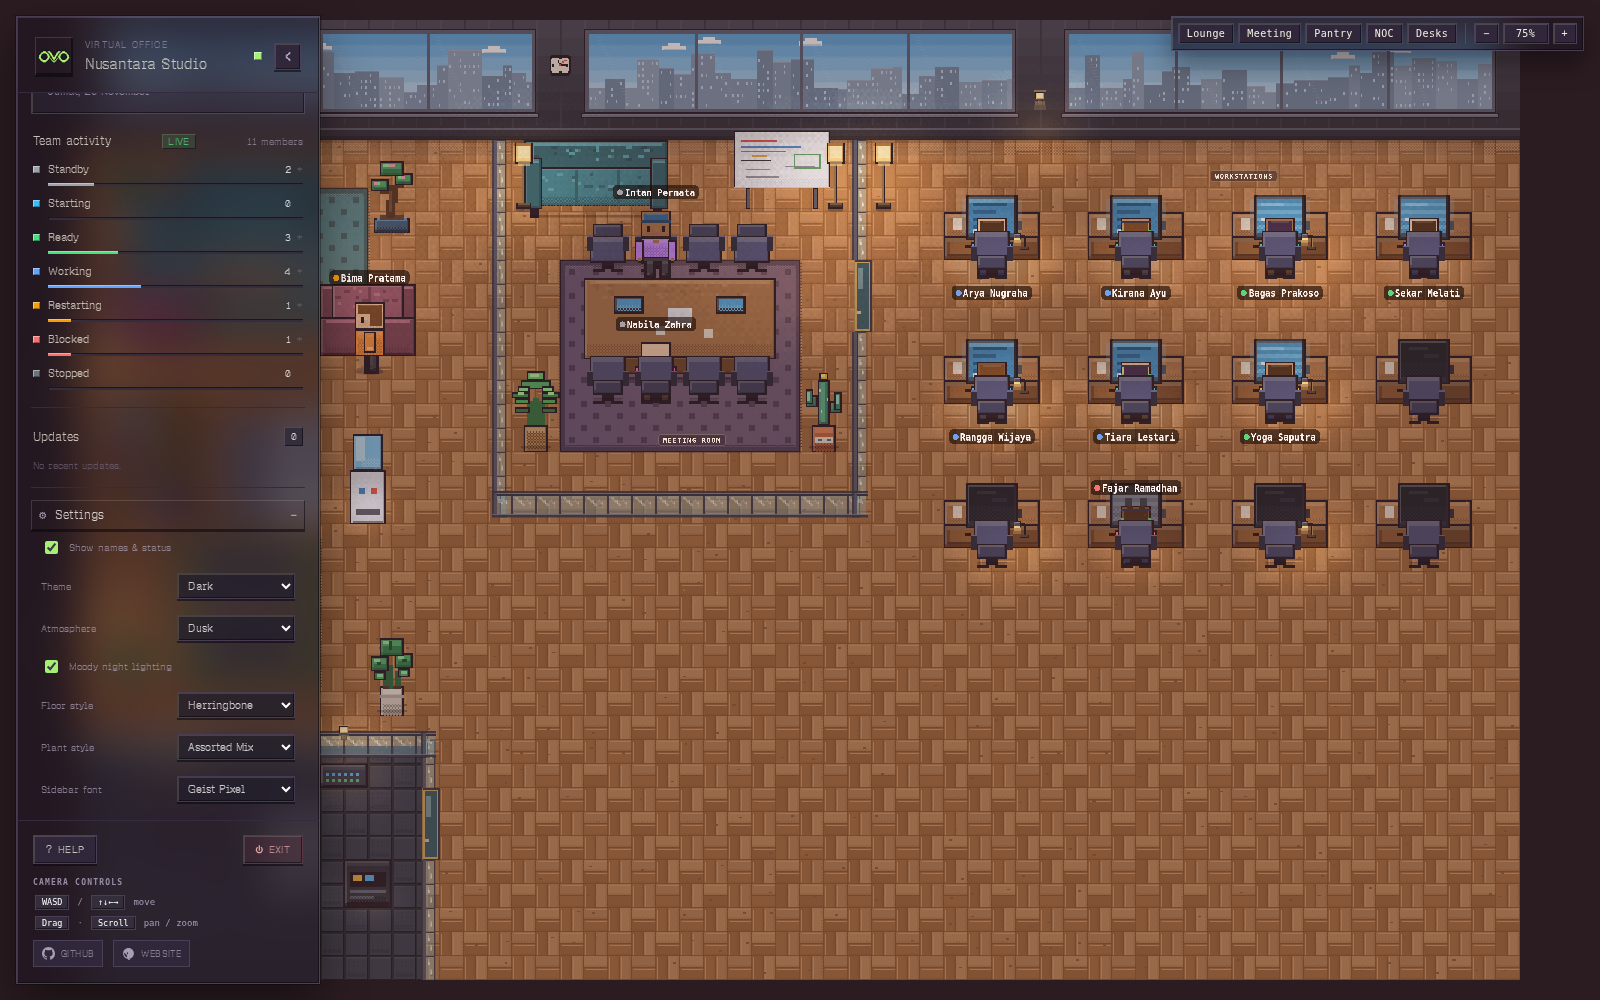
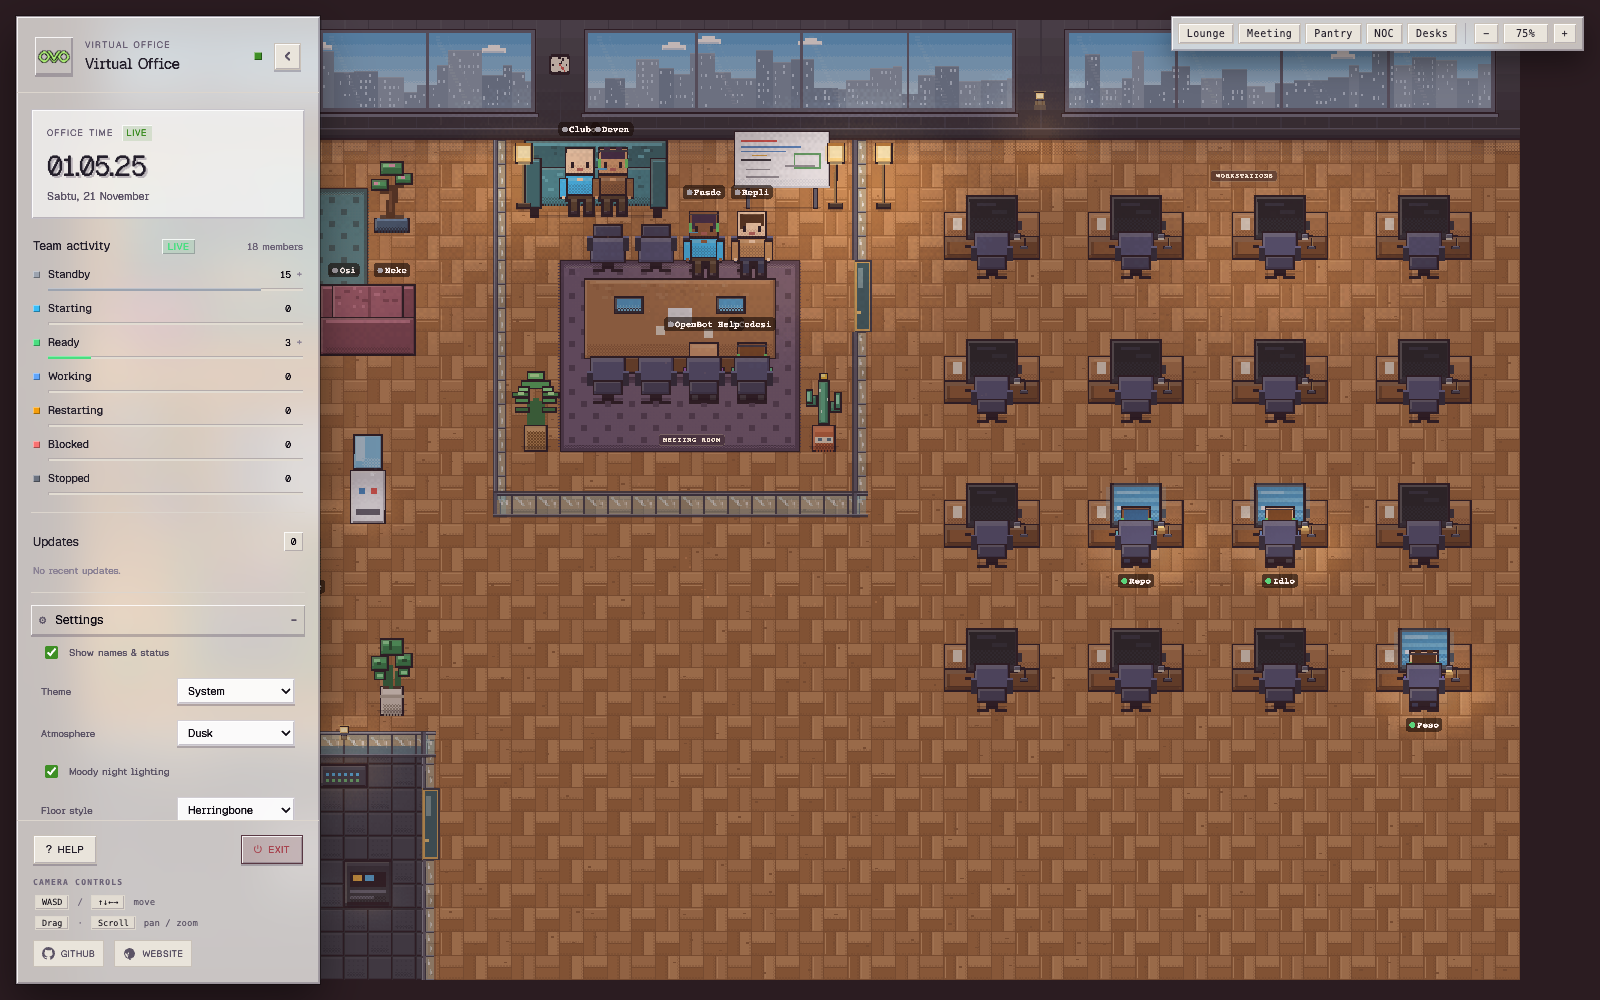
docs: regenerate screenshots with Virtual Office profile, drop Nusantara Studio

diff --git a/src/main.tsx b/src/main.tsx
@@ -1,4 +1,12 @@
 import { createRoot } from 'react-dom/client';
 import App from './App';
+import { useStore } from './store/useStore';
 import './styles/index.css';
+
+// Screenshot tooling (tmp/shoot.mjs) reads and drives the store through this
+// handle to reproduce the documented frames. Dev-only, one line, no behavior.
+if (import.meta.env.DEV) {
+  (window as unknown as { __OVO_STORE__: typeof useStore }).__OVO_STORE__ = useStore;
+}
+
 createRoot(document.getElementById('root')!).render(<App />);

diff --git a/README.md b/README.md
@@ -91,14 +91,14 @@ crops; the rest are full **1600 × 1000** captures across Day, Dusk, and Night a
 | `office-activity.gif` | 640 × 400 | 10 s timelapse clip, 10 fps (`ffmpeg`) |
 
 The workspace identity is
-a demo one — name **Nusantara Studio**, custom circular profile avatar via `/api/office-avatar` — so
+a demo one — name **Virtual Office**, custom circular profile avatar via `/api/office-avatar` — so
 the documentation never shows a real account name or avatar. No mock lives in a component: the
 world, the sidebar and the info card all read the same store shape they read in production.
 
 <!-- Side-by-side on GitHub, stacked on narrow screens: two cells, one image each. -->
 | <img src="docs/assets/office-overview.png" alt="Full office canvas with the sidebar hidden" width="100%"> | <img src="docs/assets/sidebar.png" alt="Floating sidebar with the team activity list" width="40%"> |
 |:--:|:--:|
-| **1 · Full office, sidebar hidden** — the canvas owns the whole viewport: workstation block on the right (4 bays per row, one desk per agent), 2.5D glass Meeting Room, Lounge, Pantry & Storage (centered dining rug), floor/desk lamps, balanced botanical planters and the raised-floor NOC on the left, plus the top-right room/zoom toolbar (`50%–300%`). | **2 · Sidebar** — the frosted panel floats 16 px from every edge, showing **Nusantara Studio** with its circular profile avatar, the `Live` source badge and clock, clickable phase rows, recent-updates feed, **Settings**, and the footer with **Help**, **Exit**, camera shortcuts, **GitHub** and **Website**. |
+| **1 · Full office, sidebar hidden** — the canvas owns the whole viewport: workstation block on the right (4 bays per row, one desk per agent), 2.5D glass Meeting Room, Lounge, Pantry & Storage (centered dining rug), floor/desk lamps, balanced botanical planters and the raised-floor NOC on the left, plus the top-right room/zoom toolbar (`50%–300%`). | **2 · Sidebar** — the frosted panel floats 16 px from every edge, showing **Virtual Office** with its circular profile avatar, the `Live` source badge and clock, clickable phase rows, recent-updates feed, **Settings**, and the footer with **Help**, **Exit**, camera shortcuts, **GitHub** and **Website**. |
 
 <img src="docs/assets/info-panel.png" alt="Info panel for the selected agent" width="100%">
 
